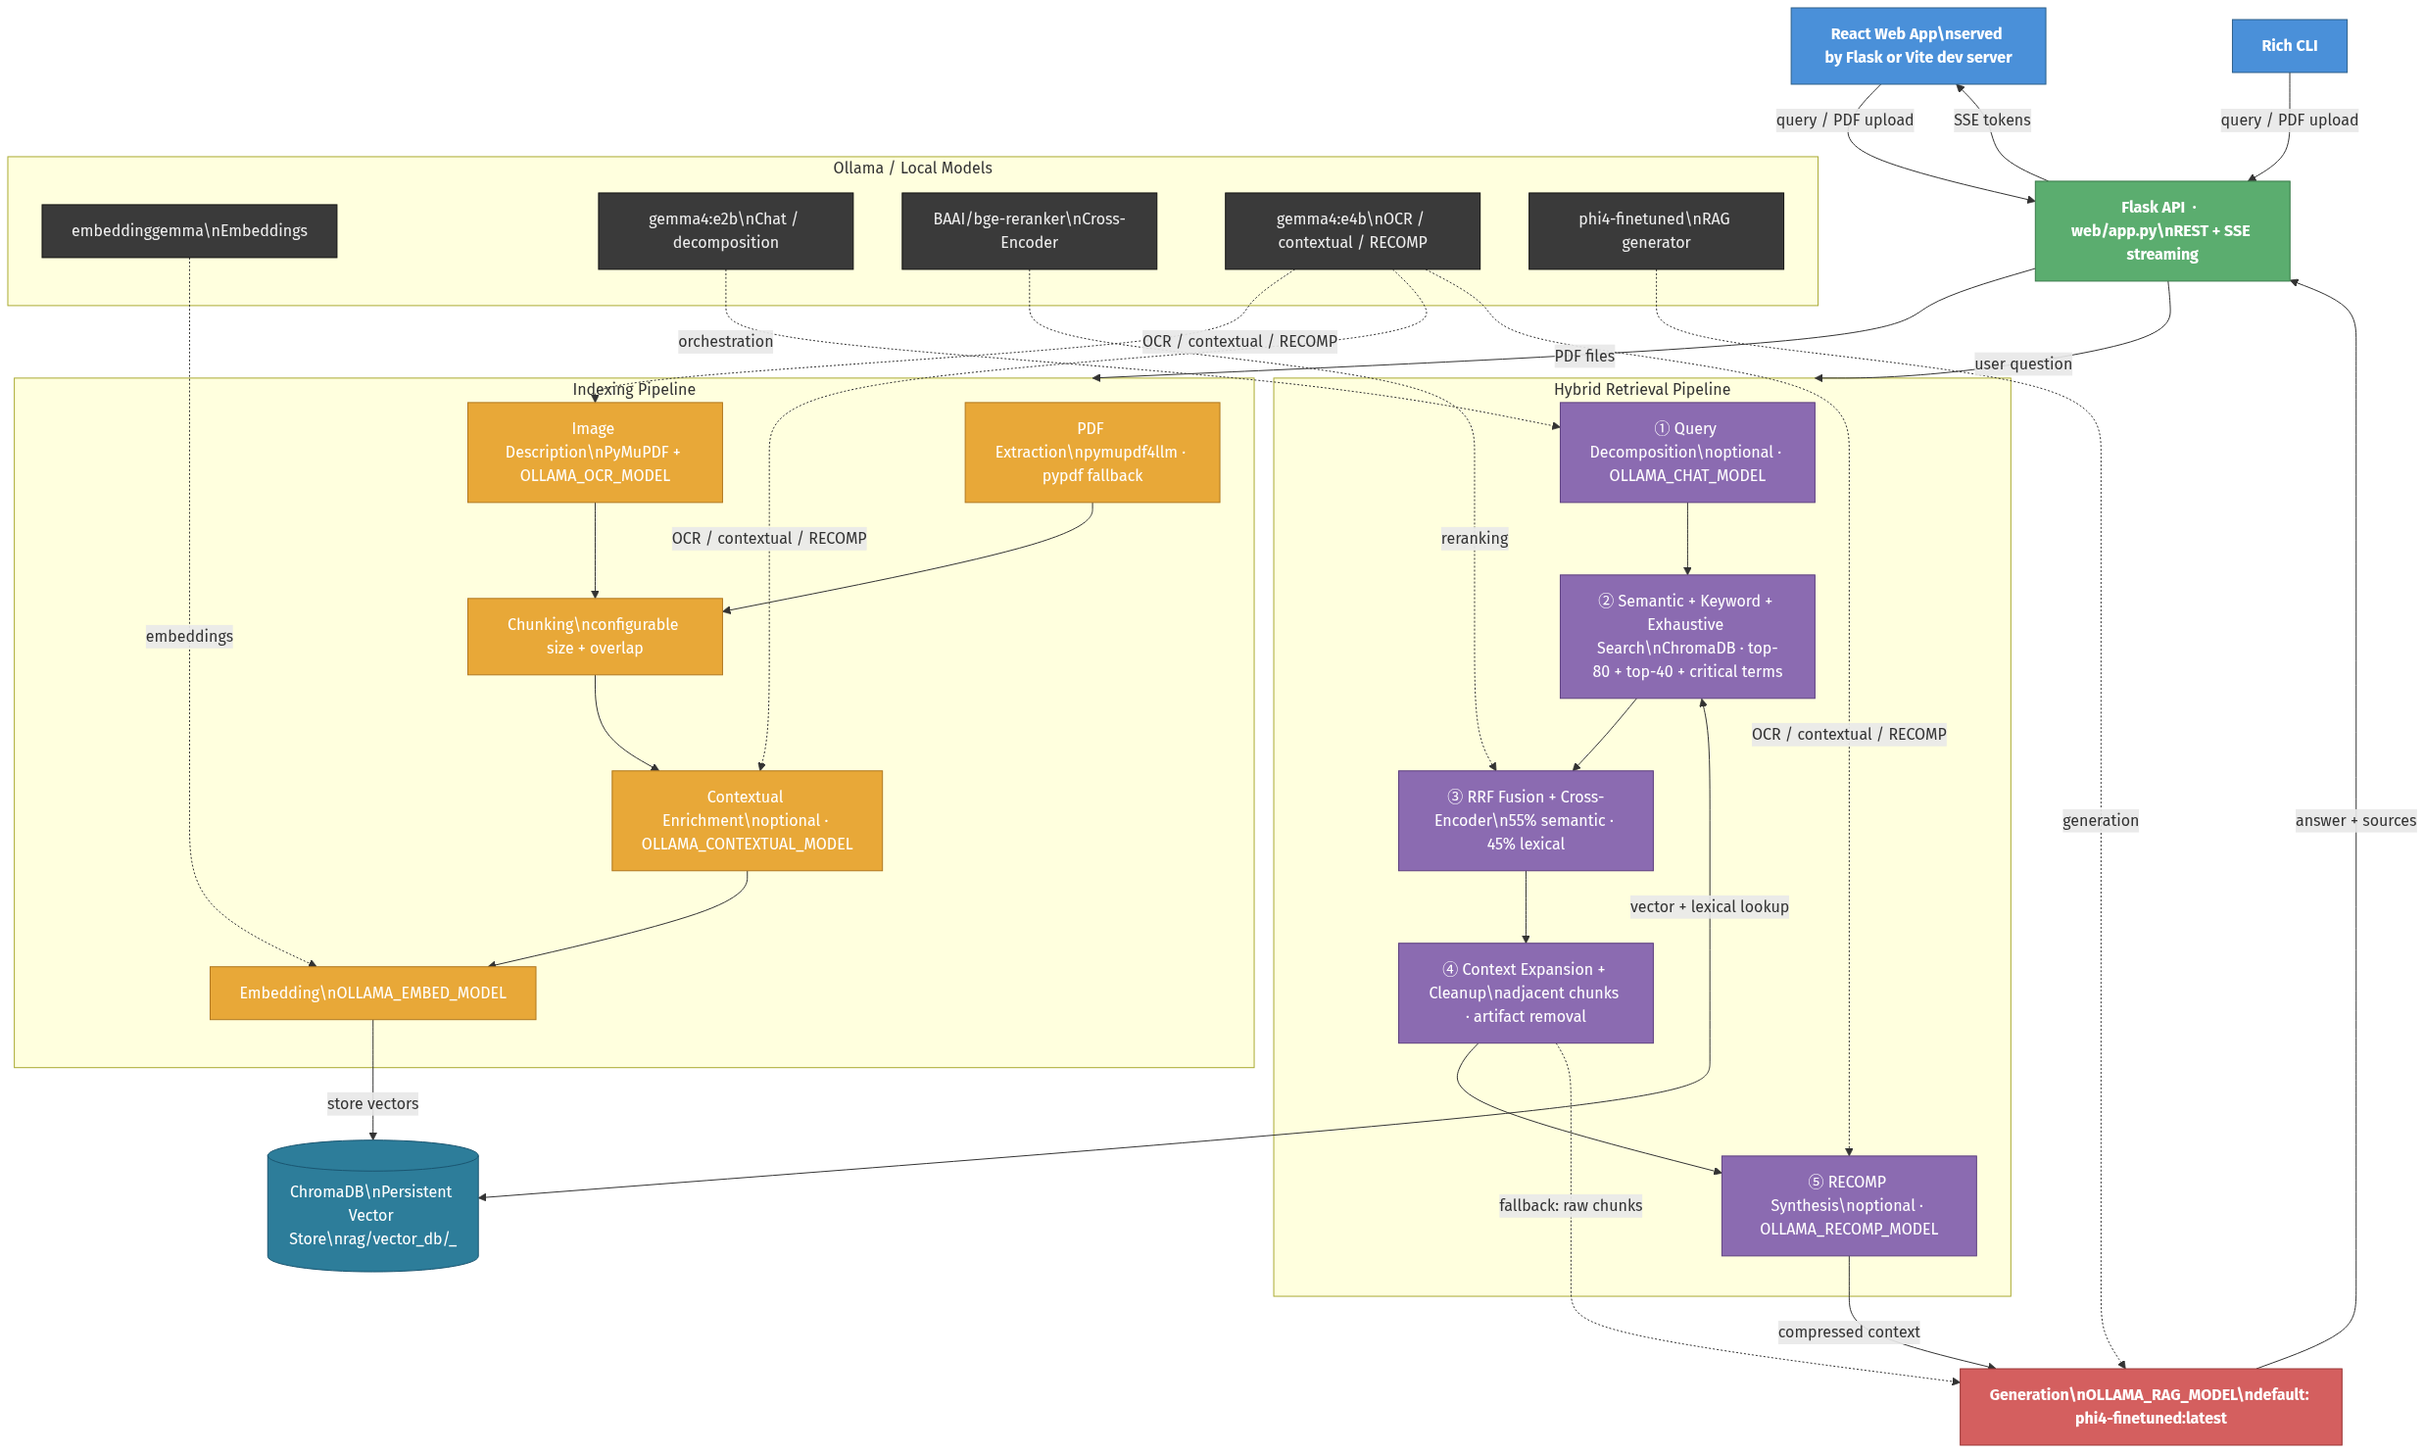
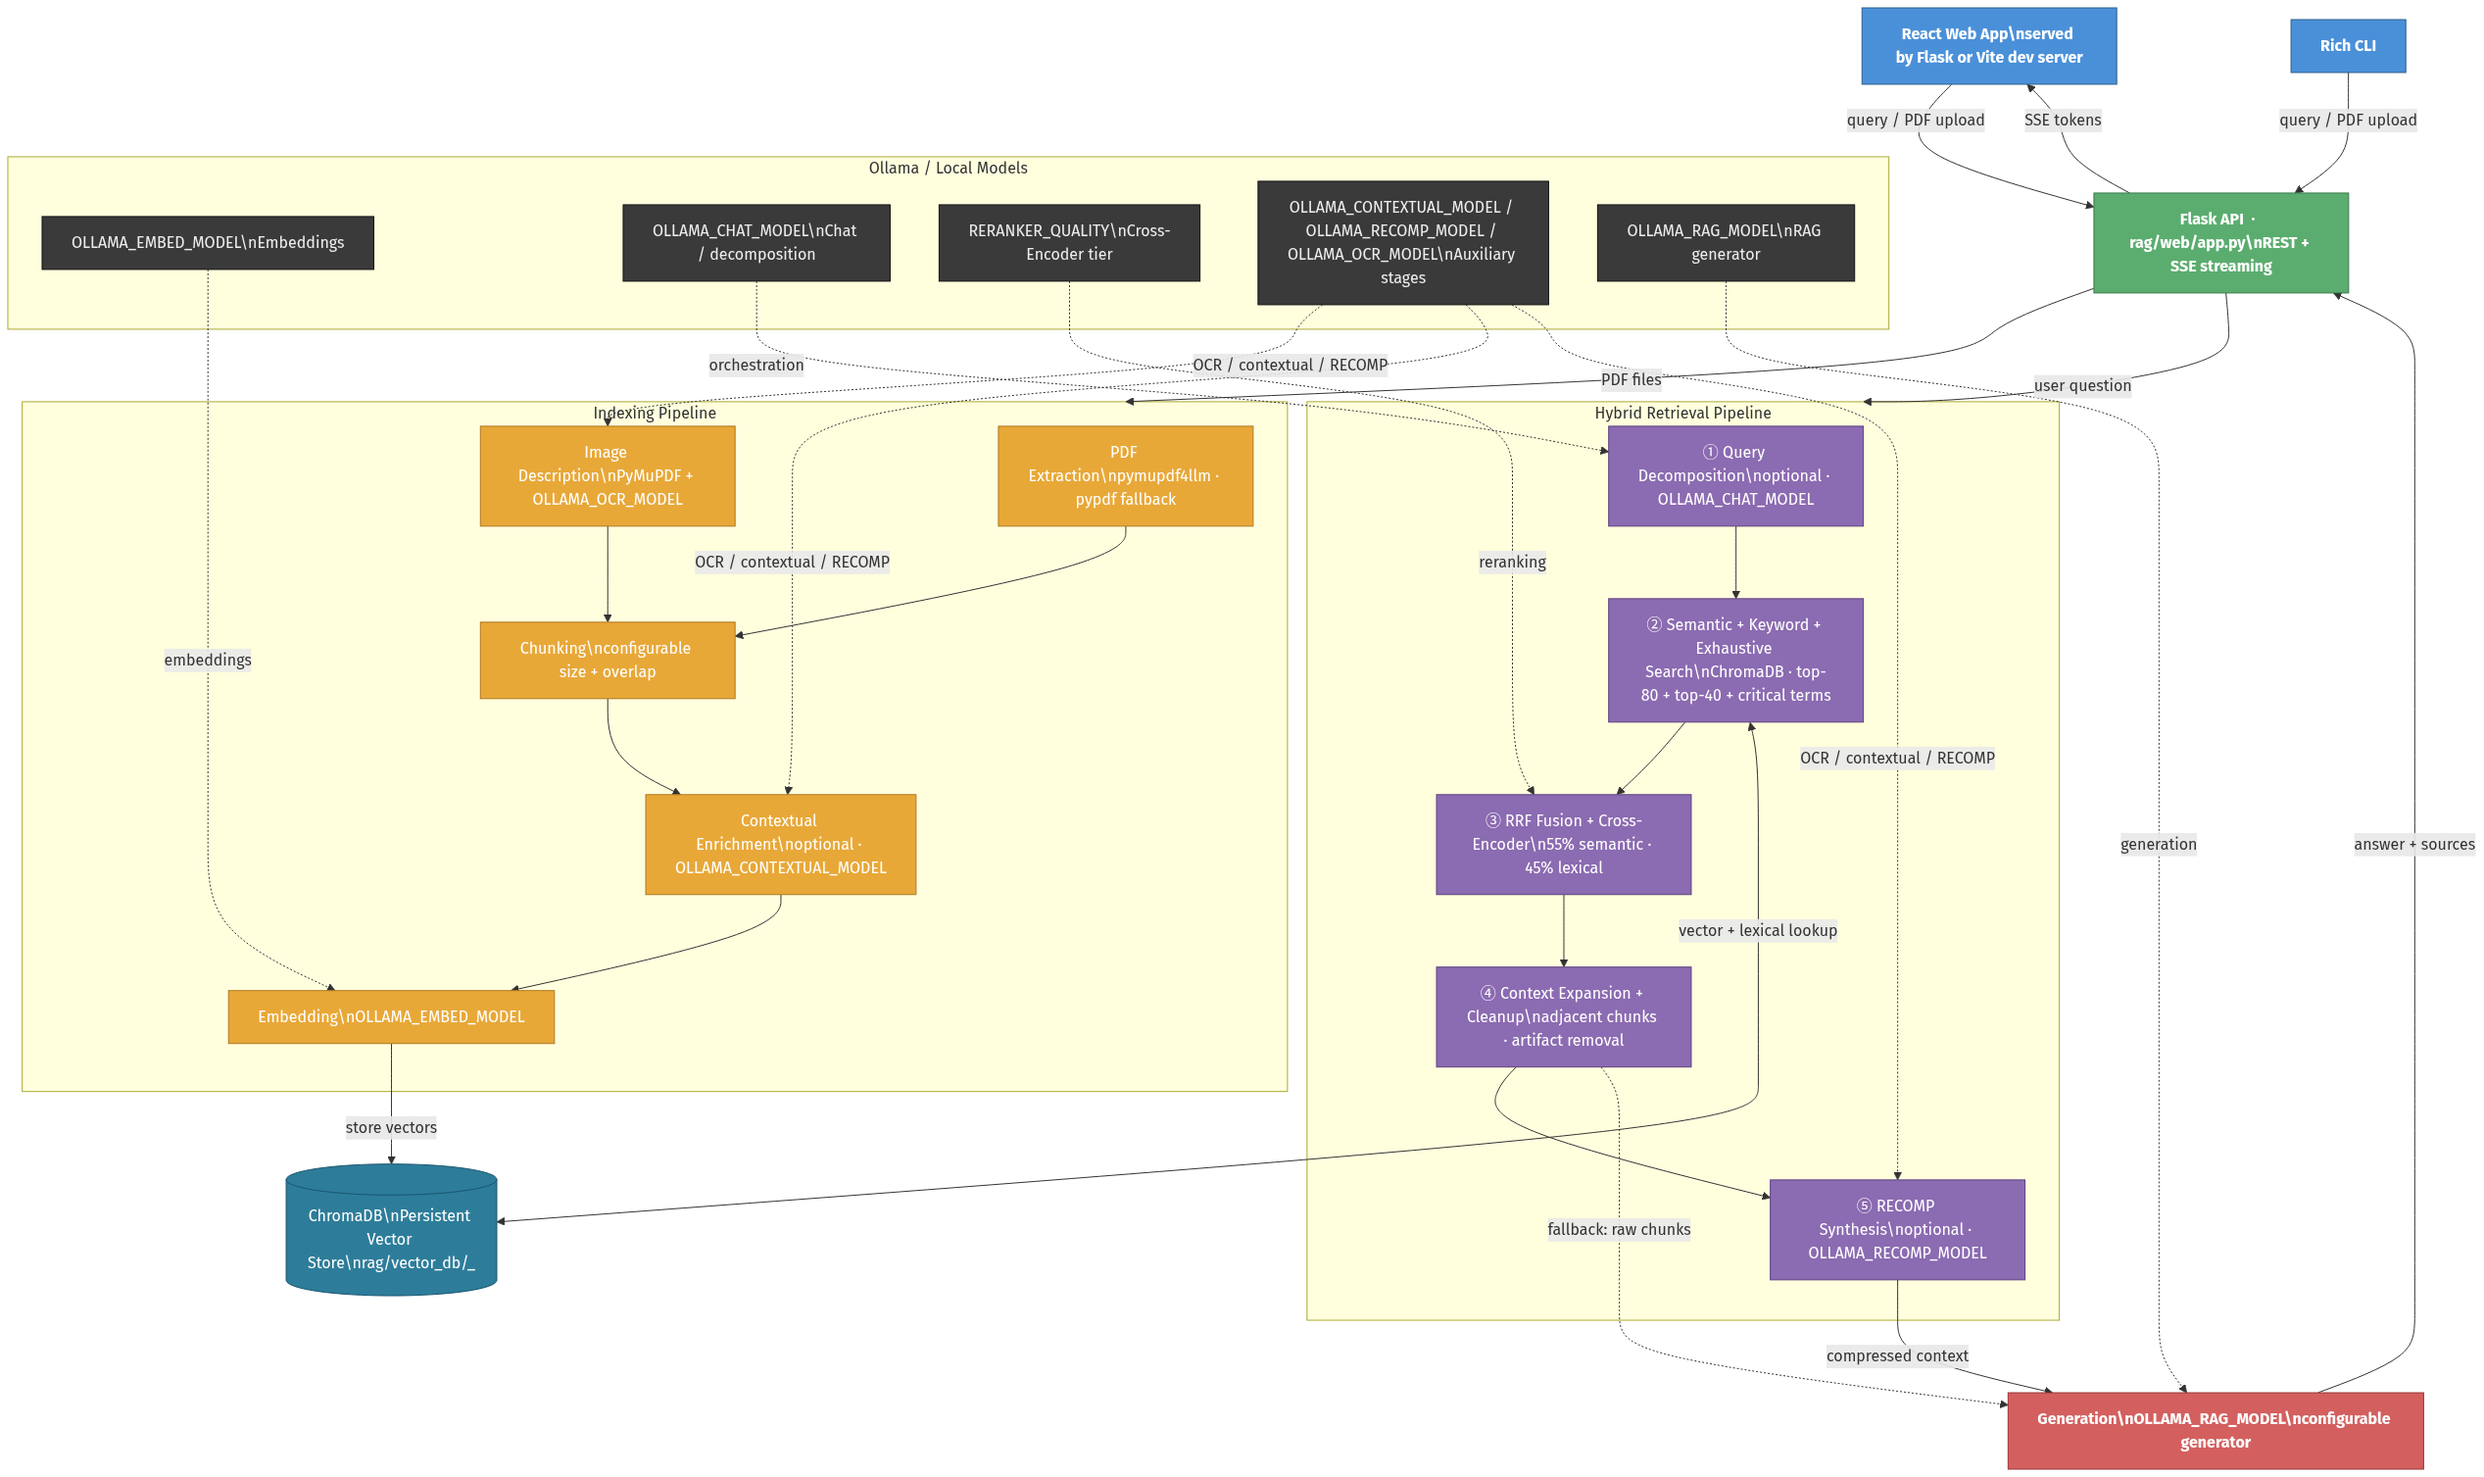
docs: align pipeline docs with configurable model roles

diff --git a/rag/chat_pdfs.py b/rag/chat_pdfs.py
@@ -151,10 +151,9 @@ if hasattr(sys.stderr, "reconfigure"):
     except Exception:
         pass
 
-"""
-Qwen3-FineTuned:latest
-phi4-finetuned:latest
-"""
+# Any compatible Ollama generator can be selected through OLLAMA_RAG_MODEL.
+# The same pattern applies to chat, embeddings, contextual retrieval, RECOMP,
+# and OCR through their corresponding OLLAMA_* environment variables.
 
 MODELO_RAG = os.getenv("OLLAMA_RAG_MODEL", "gemma4:e2b")
 MODELO_CHAT = os.getenv("OLLAMA_CHAT_MODEL", "gemma4:e2b")
@@ -406,6 +405,7 @@ Your purpose is to help users query indexed PDF documents and understand the sys
 
 ### SYSTEM OVERVIEW
 - **Architecture:** Runs fully locally using Ollama (LLM inference) and ChromaDB (vector store).
+- **Model configuration:** All model roles are configurable through environment variables. Explain roles and variables, not fixed model names.
 - **Modes:**
   1. **CHAT**: General conversation, project guidance, and command help. Maintains local history.
   2. **RAG**: Document-grounded answers from indexed PDFs using hybrid retrieval.
@@ -419,18 +419,18 @@ Use this reference to explain how the system works or which parts are mandatory 
 #### 1. INDEXING PHASE
 * **CORE (Mandatory):**
     * **Extraction & Chunking:** Reading PDFs and splitting text (`dividir_en_chunks`).
-    * **Embeddings:** Converting text to vectors and saving to ChromaDB.
+    * **Embeddings:** Converting text to vectors with `MODELO_EMBEDDING` configured through `OLLAMA_EMBED_MODEL`, then saving them to ChromaDB.
 * **OPTIONAL (Flag: `USAR_CONTEXTUAL_RETRIEVAL`):**
-    * **Contextual Retrieval:** Uses an LLM to generate a summary/context for each chunk before indexing to improve retrieval accuracy.
+    * **Contextual Retrieval:** Uses `MODELO_CONTEXTUAL` configured through `OLLAMA_CONTEXTUAL_MODEL` to generate summary/context for each chunk before indexing to improve retrieval accuracy.
 * **OPTIONAL (Flag: `USAR_EMBEDDINGS_IMAGEN`):**
-    * **Image Indexing:** Extracts raster images from each PDF page with PyMuPDF (fitz), describes them with `MODELO_OCR` (default: `gemma4:e4b`, override with `OLLAMA_OCR_MODEL`) using a structured OCR prompt that transcribes tables cell by cell, chart axes and legends, diagram components, and equations, then stores the result as a regular text chunk in ChromaDB.
+    * **Image Indexing:** Extracts raster images from each PDF page with PyMuPDF (fitz), describes them with `MODELO_OCR` configured through `OLLAMA_OCR_MODEL` using a structured OCR prompt that transcribes tables cell by cell, chart axes and legends, diagram components, and equations, then stores the result as a regular text chunk in ChromaDB.
 
 #### 2. RETRIEVAL PHASE
 Orchestrated by `realizar_busqueda_hibrida`. Core is semantic (vector) search; optional components extend it.
 * **CORE (Mandatory):**
-    * **Semantic Search:** Vector distance lookup; always performed.
+    * **Semantic Search:** Vector distance lookup using `MODELO_EMBEDDING`; always performed.
 * **OPTIONAL (execution order):**
-    * **Query Decomposition** (`USAR_LLM_QUERY_DECOMPOSITION`): Uses an auxiliary LLM to generate sub-queries before semantic search; activates for long questions (>60 chars).
+    * **Query Decomposition** (`USAR_LLM_QUERY_DECOMPOSITION`): Uses `MODELO_CHAT` configured through `OLLAMA_CHAT_MODEL` to generate sub-queries before semantic search; activates for long questions (>60 chars).
     * **Hybrid Search** (`USAR_BUSQUEDA_HIBRIDA`): Adds keyword/lexical search.
     * **Exhaustive Search** (`USAR_BUSQUEDA_EXHAUSTIVA`): Deep scan for critical terms (computationally expensive).
 
@@ -440,11 +440,11 @@ Orchestrated by `realizar_busqueda_hibrida`. Core is semantic (vector) search; o
 
 #### 4. CONTEXT & GENERATION
 * **CORE (Mandatory):**
-    * **Generation:** The RAG model (`MODELO_RAG`) generates the final answer based on the retrieved text.
+    * **Generation:** `MODELO_RAG`, configured through `OLLAMA_RAG_MODEL`, generates the final answer based on the retrieved text.
 * **OPTIONAL:**
     * **Context Optimization** (`USAR_OPTIMIZACION_CONTEXTO`): Cleans PDF artifacts (headers, footers, noise) before sending to the LLM.
     * **Neighbor Expansion** (`EXPANDIR_CONTEXTO`): Retrieves adjacent chunks to provide continuous context.
-    * **RECOMP Synthesis** (`USAR_RECOMP_SYNTHESIS`): Uses `MODELO_RECOMP` (separate from `MODELO_RAG`) to summarize/synthesize the context instead of feeding raw chunks (Default: False).
+    * **RECOMP Synthesis** (`USAR_RECOMP_SYNTHESIS`): Uses `MODELO_RECOMP`, configured through `OLLAMA_RECOMP_MODEL` and separate from `MODELO_RAG`, to summarize/synthesize the context instead of feeding raw chunks (default: True, env-overridable).
 
 ---
 
@@ -453,9 +453,10 @@ Orchestrated by `realizar_busqueda_hibrida`. Core is semantic (vector) search; o
 2. **Honesty:** Never fabricate system state or document contents. If you don't know, say so.
 3. **Guidance:** If a user asks "what should I do?", provide concrete next steps (e.g., suggest switching to RAG mode to search their PDFs).
 4. **Mode Enforcement:** If the user asks for information contained in the documents while in CHAT mode, redirect them to use RAG mode for document-grounded answers.
-5. **Language:** Always respond in the exact same language the user uses. If they write in Spanish, respond in Spanish. If they write in Catalan, respond in Catalan. If they write in English, respond in English. Never switch languages mid-conversation.
-6. **Tone:** Professional, academic, yet approachable.
-7. **Math formatting:** Use LaTeX notation for all formulas: $...$ inline, $$...$$ for display equations.
+5. **Configuration framing:** When explaining the pipeline, describe configurable roles (`OLLAMA_*`, `RERANKER_QUALITY`) instead of presenting any specific model as required.
+6. **Language:** Always respond in the exact same language the user uses. If they write in Spanish, respond in Spanish. If they write in Catalan, respond in Catalan. If they write in English, respond in English. Never switch languages mid-conversation.
+7. **Tone:** Professional, academic, yet approachable.
+8. **Math formatting:** Use LaTeX notation for all formulas: $...$ inline, $$...$$ for display equations.
 """
 
 SYSTEM_PROMPT_RAG = """You are a professional document analysis assistant. Your role is to answer questions accurately based on the provided document context.
@@ -475,8 +476,8 @@ def _modelo_necesita_system_prompt(nombre_modelo: str) -> bool:
     """Return True if the model does not have a system prompt baked in its Modelfile.
 
     Fine-tuned models in this project include 'finetuned' in their Ollama name
-    (e.g. phi4-finetuned:latest) and already carry the RAG system prompt via
-    their Modelfile. Any other model receives the prompt explicitly via the API.
+    and already carry the RAG system prompt via their Modelfile. Any other model
+    receives the prompt explicitly via the API.
     """
     return "finetuned" not in nombre_modelo.lower()
 

diff --git a/research/utils/generate_diagram.py b/research/utils/generate_diagram.py
@@ -74,15 +74,15 @@ flowchart TD
     end
 
     DB[("ChromaDB\\nPersistent Vector Store\\nrag/vector_db/<folder>_<embed_slug>")]
-    GEN["Generation\\nOLLAMA_RAG_MODEL\\ndefault: Qwen3-FineTuned:latest"]
+    GEN["Generation\\nOLLAMA_RAG_MODEL\\nconfigurable generator"]
 
     subgraph OLL["  Ollama / Local Models  "]
         direction LR
-        M1["embeddinggemma\\nEmbeddings"]
-        M2["gemma4:e2b\\nChat / decomposition"]
-        M3["BAAI/bge-reranker\\nCross-Encoder"]
-        M4["gemma4:e4b\\nOCR / contextual / RECOMP"]
-        M5["Qwen3-FineTuned\\nRAG generator"]
+        M1["OLLAMA_EMBED_MODEL\\nEmbeddings"]
+        M2["OLLAMA_CHAT_MODEL\\nChat / decomposition"]
+        M3["RERANKER_QUALITY\\nCross-Encoder tier"]
+        M4["OLLAMA_CONTEXTUAL_MODEL / OLLAMA_RECOMP_MODEL / OLLAMA_OCR_MODEL\\nAuxiliary stages"]
+        M5["OLLAMA_RAG_MODEL\\nRAG generator"]
     end
 
     WEB & CLI -->|"query / PDF upload"| API

diff --git a/README.md b/README.md
@@ -186,7 +186,7 @@ Set these in your shell or in a `.env` file at the project root.
 | `MAX_CONTEXTO_CHARS` | Maximum retrieved-context characters sent to the answer/RECOMP stage (default: `24000`) |
 | `CONTEXTUAL_DOC_CHARS` | Maximum document-level characters sent to contextual retrieval while indexing each chunk (default: `24000`) |
 | `DOCS_FOLDER` | PDF folder to index (default: `rag/docs/en/`) |
-| `RERANKER_QUALITY` | Cross-encoder tier: `quality` ([BAAI/bge](https://huggingface.co/BAAI/bge-reranker-v2-m3)) or `fast` (MiniLM) |
+| `RERANKER_QUALITY` | Cross-encoder tier: `quality` or `fast` |
 | `MONKEYGRAB_LANG` | CLI language: `es` (default), `en` or `ca` |
 
 > [ChromaDB](https://www.trychroma.com/) paths follow the pattern `rag/vector_db/<folder>_<embed_slug>/`. Changing `DOCS_FOLDER` or `OLLAMA_EMBED_MODEL` selects a different index — run `/reindex` when you intentionally switch either.

diff --git a/research/docs/USER_SPARSE_CHECKOUT.md b/research/docs/USER_SPARSE_CHECKOUT.md
@@ -10,10 +10,10 @@ cd localOllamaRAG
 git sparse-checkout set rag README.md CLAUDE.md pytest.ini
 ```
 
-To include the default free-use PDF folder but skip RagBench trees:
+To include the default English PDF folder but skip RagBench trees:
 
 ```bash
-git sparse-checkout set rag README.md CLAUDE.md pytest.ini rag/docs/libre
+git sparse-checkout set rag README.md CLAUDE.md pytest.ini rag/docs/en
 ```
 
 **Caveats**
